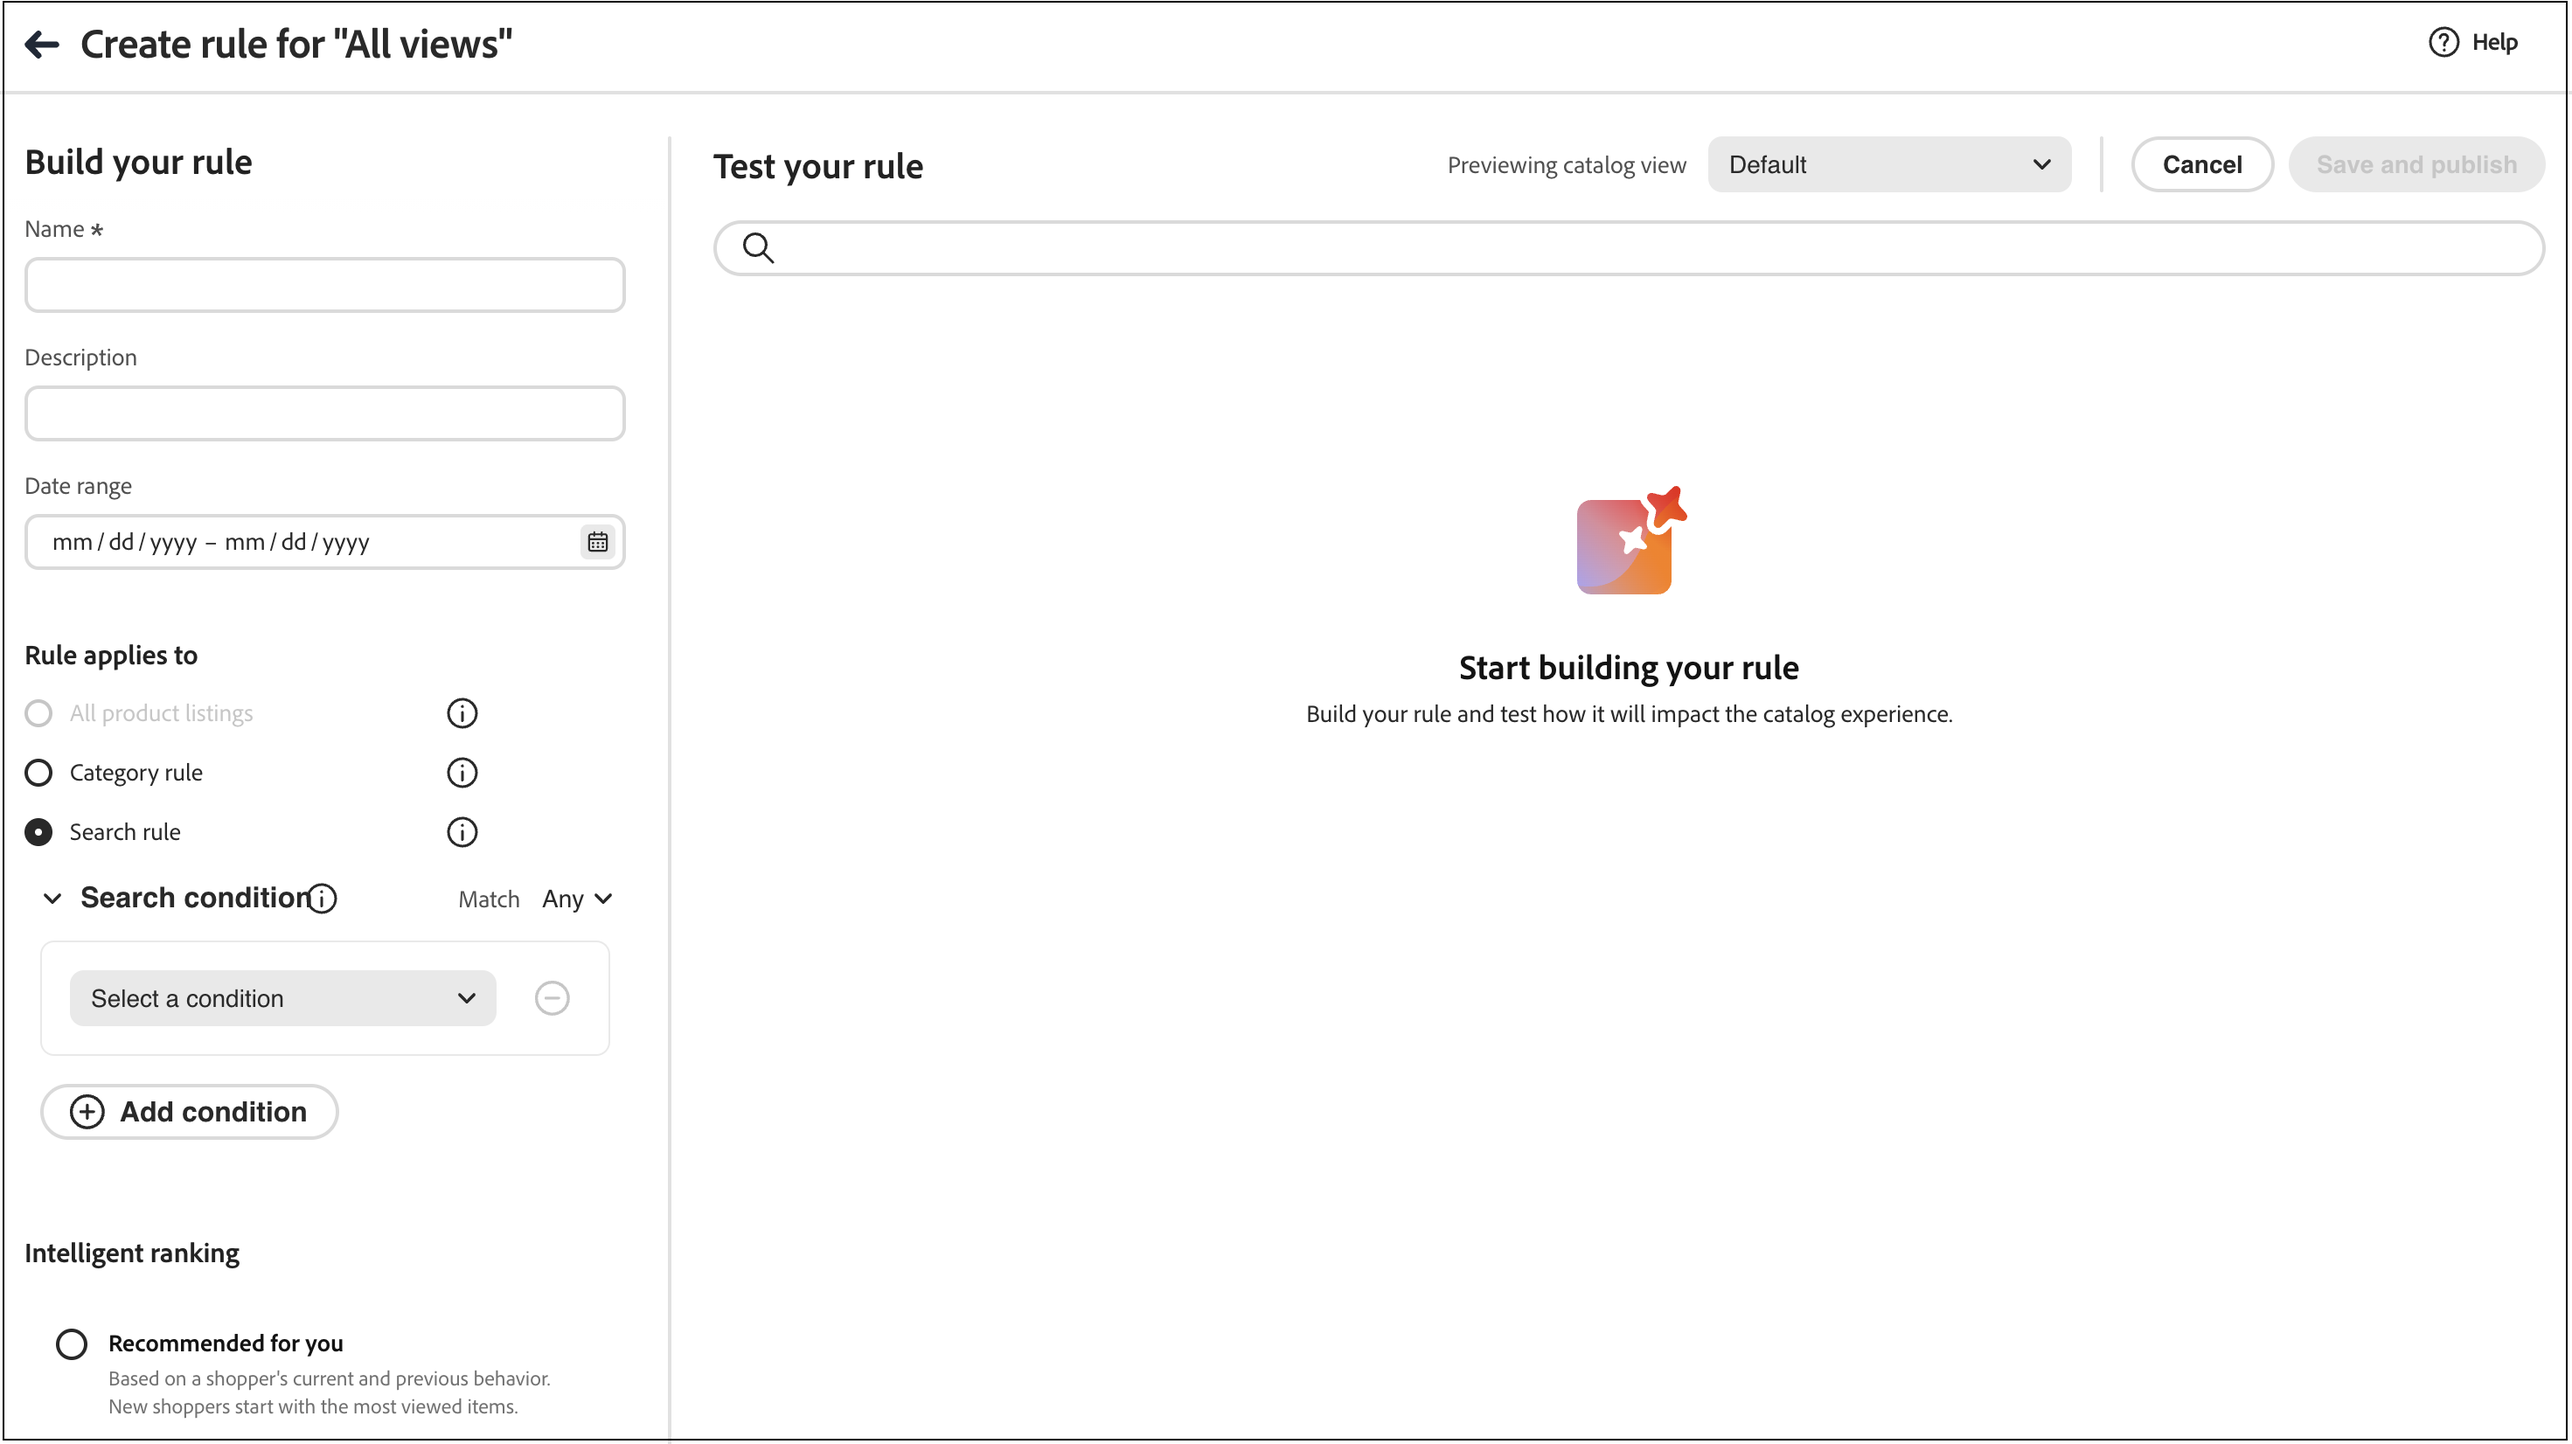
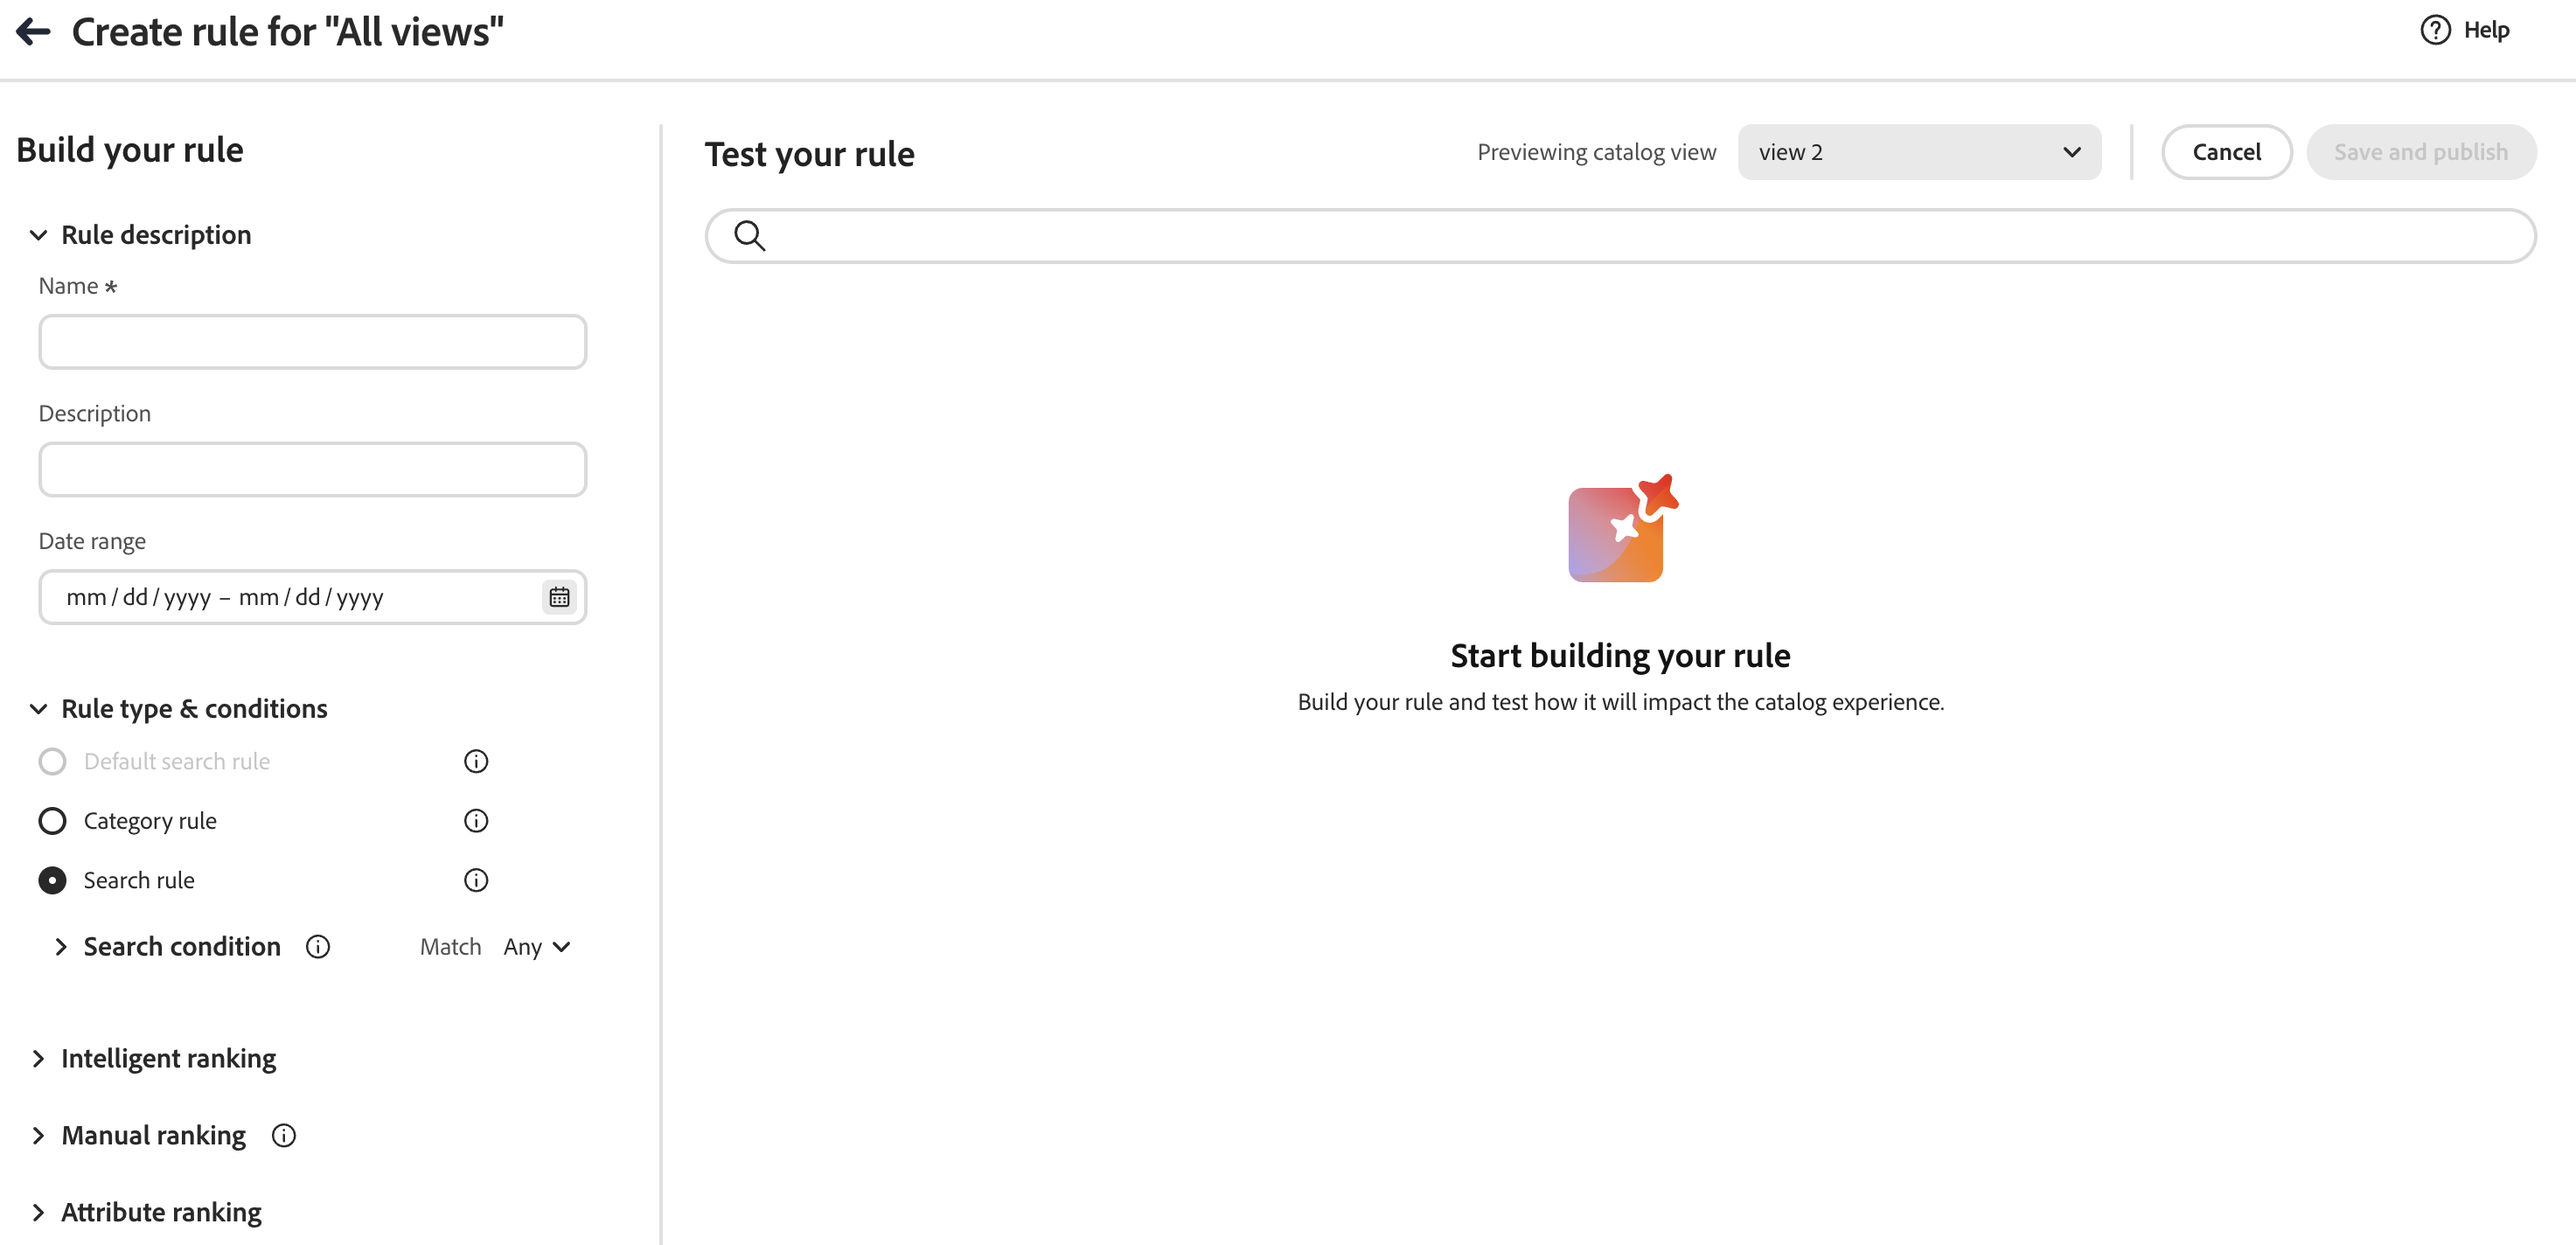
Updating screenshots and menu name

diff --git a/help/optimizer/merchandising/rules/add.md b/help/optimizer/merchandising/rules/add.md
@@ -48,7 +48,7 @@ Each rule type has an information icon in the editor with a short explanation. U
 
 | Rule type | Purpose |
 | --- | --- |
-| **All product listings** | Default ranking and merchandising across product listings when no more specific search or category rule applies. You can only create one such rule; it cannot contain conditions. |
+| **Default search rule** | Default ranking and merchandising across product listings when no more specific search or category rule applies. You can only create one such rule; it cannot contain conditions. |
 | **Category rule** | Applies merchandising and ranking to a single category, controlling product order on that category page. |
 | **Search rule** | Applies merchandising and ranking when shoppers run a search that matches the rule's query conditions. |
 
@@ -139,7 +139,7 @@ When multiple categories have similar names, use the category path displayed wit
 
 ### Intelligent ranking {#intelligent-ranking}
 
-Intelligent ranking orders products using **behavioral signals** and, where applicable, AI. It applies to **search rules**, **all product listings** (default rules), and **category rules** (category pages). For shopper **searches**, ranking also weighs **textual relevance** to the query; **category pages** do not use query text in the same way—the editor focuses on behavioral strategies.
+Intelligent ranking orders products using **behavioral signals** and, where applicable, AI. It applies to **search rules**, **default search rules**, and **category rules** (category pages). For shopper **searches**, ranking also weighs **textual relevance** to the query; **category pages** do not use query text in the same way—the editor focuses on behavioral strategies.
 
 Store owners can set strategies such as the following. Exact labels and time windows match the rule editor and may differ slightly by rule type.
 
@@ -397,7 +397,7 @@ This option provides a quick way to see all the rule parameters, while staying o
 | Field | Description |
 | --- | --- |
 | Name | The name of the rule. Rule names must be unique. |
-| Rule Type | **Default** (all product listings), **Query** (specific search conditions), or **Category** (category pages), depending on **Rule applies to**. |
+| Rule Type | **Default search rule**, **Query** (specific search conditions), or **Category** (category pages), depending on **Rule applies to**. |
 | Start date | The start date of the rule, if scheduled. |
 | End date | The end date of the rule, if scheduled. |
 | Description | A brief description of the rule. |

diff --git a/help/optimizer/merchandising/rules/overview.md b/help/optimizer/merchandising/rules/overview.md
@@ -23,7 +23,7 @@ topic_v2:
 ---
 # Merchandising Rules
 
-Merchandising rules combine logic with actions to shape how products appear in **search results**, on **default product listings** (**All product listings**), and on **category pages**. You can boost, bury, pin, or hide products and apply **intelligent ranking** so listings reflect your business goals.
+Merchandising rules combine logic with actions to shape how products appear in **search results** and on **category pages**. You can boost, bury, pin, or hide products and apply **intelligent ranking** so listings reflect your business goals.
 
 Each **search rule** has three main components:
 
@@ -33,7 +33,7 @@ Each **search rule** has three main components:
 
 **Category rules** use **category selection** instead of search query conditions; intelligent ranking and manual ranking work the same way as for search, with differences called out in [Create and Manage Rules](add.md).
 
-You can combine multiple conditions and actions for search rules, and schedule any rule to be active for a period. You can also set a **default rule** (**All product listings**) that applies when no more specific search or category rule applies.
+You can combine multiple conditions and actions for search rules, and schedule any rule to be active for a period. You can also set a **default search rule** that applies when no more specific search or category rule applies.
 
 ## Category rules {#category-rules}
 
@@ -68,7 +68,7 @@ When composing a complex rule, it can help to write it out with indentation to d
 
 ## Default rule
 
-You can set a default rule (**All product listings**) that applies when no search term is provided, or no other search rule can be applied. If you set the default rule to "Most Purchased", then queries default to that ranking type unless superseded by a more specific search term. No search term can be set for the default rule. **Category rules** are separate: they apply only to the categories you select and do not replace the default listing rule.
+You can set a **default search rule** that applies when no search term is provided, or no other search rule can be applied. If you set the default rule to "Most Purchased", then queries default to that ranking type unless superseded by a more specific search term. No search term can be set for the default rule. **Category rules** are separate: they apply only to the categories you select and do not replace the default listing rule.
 
 ## Order of precedence with multiple rules
 

diff --git a/help/optimizer/release-notes.md b/help/optimizer/release-notes.md
@@ -40,7 +40,7 @@ _September 3, 2026_
 
 ### Attribute ranking (beta)
 
-[!DNL Adobe Commerce Optimizer] merchandising rules now support [**attribute ranking**](./merchandising/rules/add.md#attribute-ranking) for the **All product listings**, **Category rule**, and **Search rule**. Automatically apply a **[!UICONTROL Boost]**, **[!UICONTROL Bury]**, or **[!UICONTROL Hide]** action to every product that matches one or more attribute conditions, such as brand or category, without selecting individual SKUs. Attribute ranking is in beta. [Learn more](./merchandising/rules/add.md#attribute-ranking).
+[!DNL Adobe Commerce Optimizer] merchandising rules now support [**attribute ranking**](./merchandising/rules/add.md#attribute-ranking) for the **Default search rule**, **Category rule**, and **Search rule**. Automatically apply a **[!UICONTROL Boost]**, **[!UICONTROL Bury]**, or **[!UICONTROL Hide]** action to every product that matches one or more attribute conditions, such as brand or category, without selecting individual SKUs. Attribute ranking is in beta. [Learn more](./merchandising/rules/add.md#attribute-ranking).
 
 {{aco-release}}
 
